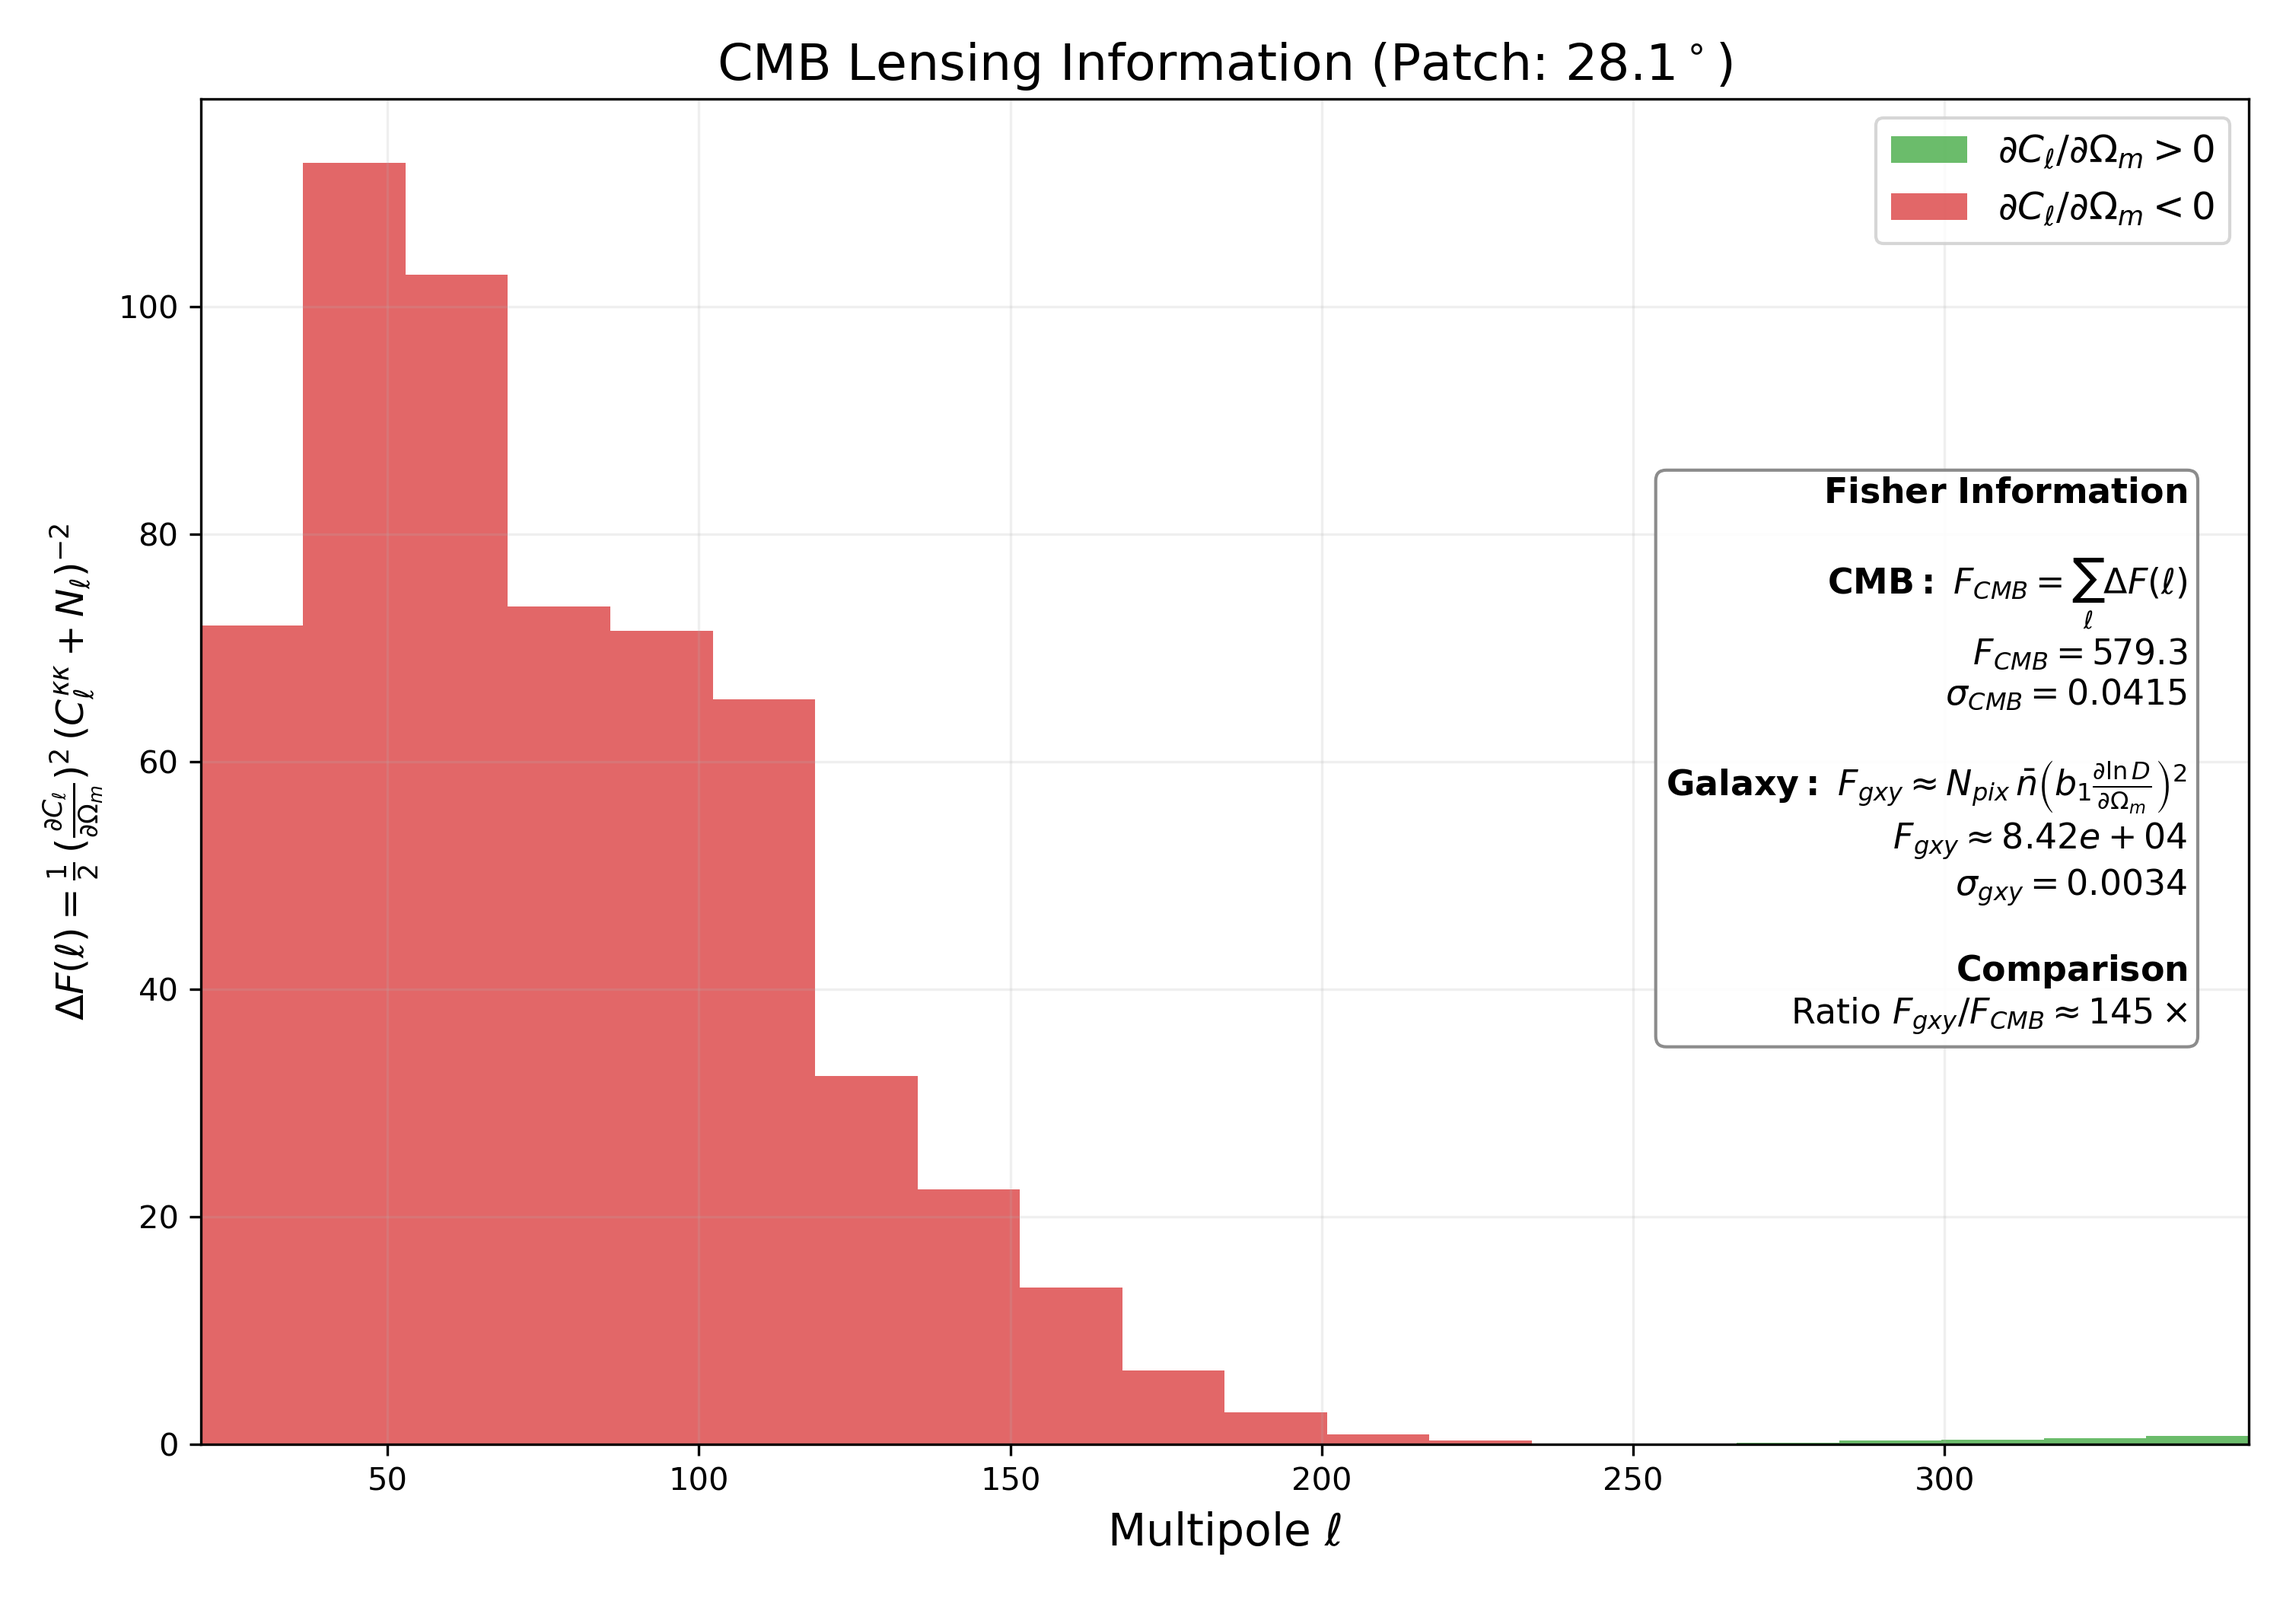
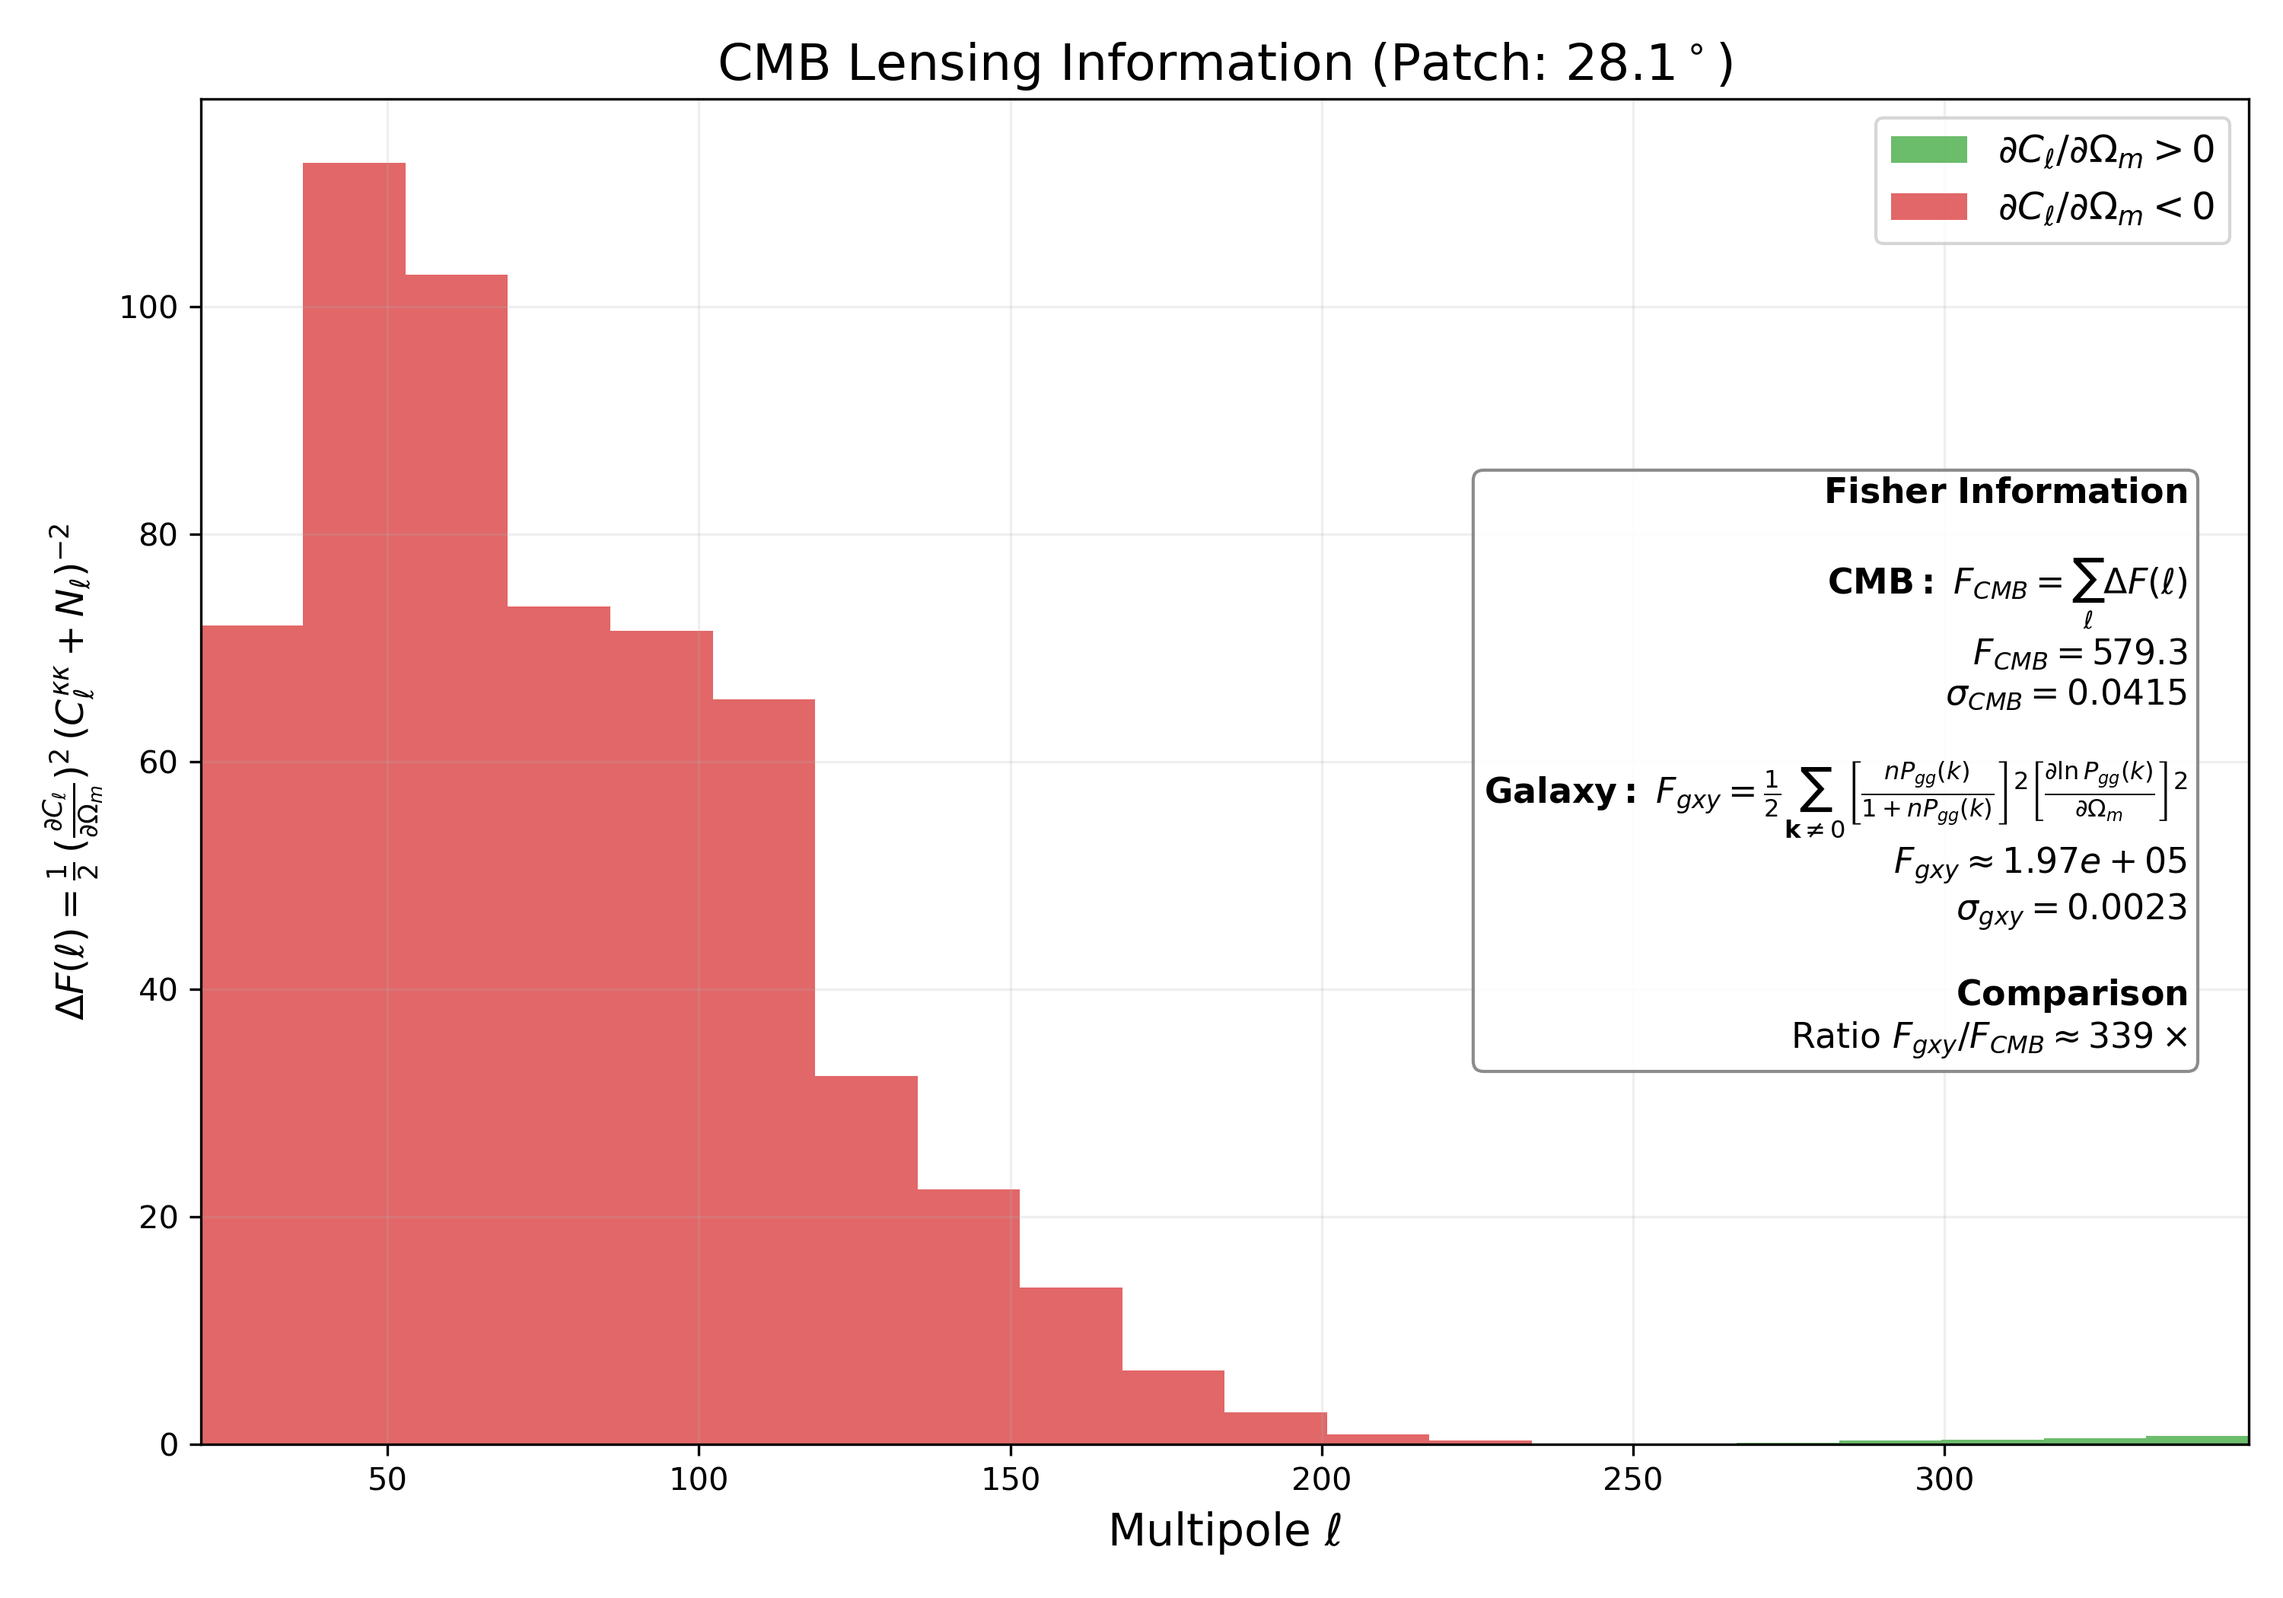
correction des formules dans l'analyses de fisher

Changed region(s): [[0.651, 0.4643, 0.961, 0.681]]

diff --git a/scripts/analyze_fisher_scales.py b/scripts/analyze_fisher_scales.py
@@ -1,11 +1,11 @@
 import os
 
 import jax.numpy as jnp
+import jax_cosmo
 import matplotlib.pyplot as plt
 import numpy as np
 import yaml
 from jax import jacfwd
-from jaxpm.growth import growth_factor
 
 from desi_cmb_fli.bricks import get_cosmology
 from desi_cmb_fli.cmb_lensing import compute_theoretical_cl_kappa
@@ -32,9 +32,9 @@ def simple_fisher(config_path="configs/inference/config.yaml"):
     if 'z_source' not in cfg['cmb_lensing']:
         cfg['cmb_lensing']['z_source'] = 1100.0
 
-    # Also enable galaxies for comparison
-    cfg['galaxies'] = cfg.get('galaxies', {})
-    cfg['galaxies']['enabled'] = True
+    # Also enable galaxies for comparison (constructor reads model.galaxies_enabled)
+    cfg['model'] = cfg.get('model', {})
+    cfg['model']['galaxies_enabled'] = True
 
     # Instantiate model to get grid geometry and noise
     model, _ = get_model_from_config(cfg)
@@ -105,38 +105,70 @@ def simple_fisher(config_path="configs/inference/config.yaml"):
     # ===== GALAXY FISHER CALCULATION (THEORETICAL) =====
     print("\nComputing galaxy Fisher information (theoretical)...")
 
-    # Growth factor derivative w.r.t. Omega_m
-    def get_growth_factor_at_z(theta):
+    b1 = loc_fid.get("b1", 2.0)  # Lagrangian bias
+    bE = 1.0 + b1  # Eulerian bias: b_E = 1 + b_L
+
+    V_survey = float(np.prod(model.box_shape))  # (Mpc/h)³
+    nbar = model.gxy_density  # galaxies per (Mpc/h)^3
+
+    box_lengths = np.asarray(model.box_shape, dtype=float)
+    mesh_sizes = np.asarray(model.mesh_shape, dtype=int)
+    k_fund_axes = 2.0 * np.pi / box_lengths
+    k_nyquist_axes = np.pi * mesh_sizes / box_lengths
+
+    # Exact anisotropic mode lattice from FFT frequencies:
+    # k_i = 2π * fftfreq(N_i, d=L_i/N_i)
+    kx = 2.0 * np.pi * np.fft.fftfreq(mesh_sizes[0], d=box_lengths[0] / mesh_sizes[0])
+    ky = 2.0 * np.pi * np.fft.fftfreq(mesh_sizes[1], d=box_lengths[1] / mesh_sizes[1])
+    kz = 2.0 * np.pi * np.fft.fftfreq(mesh_sizes[2], d=box_lengths[2] / mesh_sizes[2])
+    kx3d, ky3d, kz3d = np.meshgrid(kx, ky, kz, indexing='ij')
+    k_mag = np.sqrt(kx3d**2 + ky3d**2 + kz3d**2)
+
+    # Keep all physical non-DC modes present on the discrete lattice
+    k_modes = jnp.asarray(k_mag.ravel())
+    k_mode_mask = k_modes > 0.0
+    k_modes = k_modes[k_mode_mask]
+
+    def get_Pgg_all_k(theta):
+        """Vectorized P_gg(k) = b_E² * P_mm(k) from jax_cosmo."""
         Om, s8 = theta
         cosmo = get_cosmology(Omega_m=Om, sigma8=s8)
-        # Growth factor at a_obs (scale factor from model)
-        D_z = growth_factor(cosmo, jnp.array([model.a_obs]))[0]
-        return D_z
+        # Vectorized over all k_modes at once
+        Pmm = jnp.squeeze(jax_cosmo.power.linear_matter_power(cosmo, k_modes, a=model.a_obs))
+        return (bE**2) * Pmm
 
-    D_fid = get_growth_factor_at_z(theta_fid)
-    dD_dOm = jacfwd(get_growth_factor_at_z)(theta_fid)[0]  # Gradient w.r.t. Omega_m
+    # Compute P_gg(k) and its derivative via JAX autodiff
+    Pgg_k = get_Pgg_all_k(theta_fid)
+    dPgg_dtheta = jacfwd(get_Pgg_all_k)(theta_fid)
+    dPgg_dOm = dPgg_dtheta[..., 0]  # Derivative w.r.t Omega_m
 
-    # Galaxy bias from fiducial parameters
-    b1 = loc_fid.get("b1", 2.0)  # Default to 2.0 if not in config
+    # FKP effective-volume weight per mode: [n̄P/(1 + n̄P)]²
+    fkp_weight_sq = (nbar * Pgg_k / (1.0 + nbar * Pgg_k))**2
 
-    n_cells = int(np.prod(model.mesh_shape))
+    # Fisher integrand: (1/2) * [∂lnP/∂Ω_m]² * [n̄P/(1+n̄P)]²
+    dlnP_dOm = dPgg_dOm / Pgg_k
+    fisher_integrand = 0.5 * fkp_weight_sq * dlnP_dOm**2
 
-    # Fisher info
-    total_fisher_gxy = model.gxy_count * n_cells * (b1 * dD_dOm / D_fid)**2
+    # Discrete exact finite-volume Fisher sum:
+    # F = (1/2) * Σ_k [n̄P/(1+n̄P)]² [∂lnP/∂Ω_m]²
+    total_fisher_gxy = jnp.sum(fisher_integrand)
 
     predicted_sigma_gxy = 1.0 / jnp.sqrt(total_fisher_gxy)
 
     z_obs = 1.0/model.a_obs - 1.0
 
     print("-" * 50)
-    print(f"GALAXY RESULTS (Box: {model.box_shape[0]:.1f} Mpc/h)")
+    print(f"GALAXY RESULTS (Box shape: {tuple(model.box_shape)} Mpc/h)")
     print("-" * 50)
-    print(f"Galaxy count per cell: {model.gxy_count:.2f}")
+    print(f"Galaxy density n̄: {nbar:.4e} (Mpc/h)^-3")
+    print(f"Volume: {V_survey:.1f} (Mpc/h)^3")
     print(f"Redshift z_obs: {z_obs:.4f}")
-    print(f"Growth factor D(a={model.a_obs:.4f}): {D_fid:.4f}")
-    print(f"∂D/∂Ω_m: {dD_dOm:.4f}")
-    print(f"Galaxy bias b1: {b1:.2f}")
-    print(f"Number of cells: {n_cells}")
+    print(f"Lagrangian bias b1: {b1:.2f}")
+    print(f"Eulerian bias bE: {bE:.2f}")
+    print(f"k_fund per axis: {k_fund_axes} h/Mpc")
+    print(f"k_nyquist per axis: {k_nyquist_axes} h/Mpc")
+    print(f"Discrete k-mode count (non-DC): {k_modes.size}")
+    print(f"k range used: [{jnp.min(k_modes):.4f}, {jnp.max(k_modes):.4f}] h/Mpc")
     print(f"Total Fisher Info (Omega_m): {total_fisher_gxy:.2f}")
     print(f"Predicted 1-sigma error on Omega_m: {predicted_sigma_gxy:.5f}")
     print("-" * 50)
@@ -189,8 +221,7 @@ def simple_fisher(config_path="configs/inference/config.yaml"):
 
     # Mathematical formulas for annotation
     formula_cmb = r"$\mathbf{CMB:}\ F_{CMB} = \sum_\ell \Delta F(\ell)$"
-    # Galaxy Fisher: F = N_pix * n_bar * (b1 * dlnD/dOm)^2
-    formula_gxy = r"$\mathbf{Galaxy:}\ F_{gxy} \approx N_{pix}\, \bar{n} \left(b_1 \frac{\partial \ln D}{\partial \Omega_m}\right)^2$"
+    formula_gxy = r"$\mathbf{Galaxy:}\ F_{gxy} = \frac{1}{2}\sum_{\mathbf{k}\neq 0}\left[\frac{nP_{gg}(k)}{1+nP_{gg}(k)}\right]^2\left[\frac{\partial \ln P_{gg}(k)}{\partial\Omega_m}\right]^2$"
 
     textstr = '\n'.join((
         r'$\bf{Fisher\ Information}$',

diff --git a/docs/pipeline.md b/docs/pipeline.md
@@ -151,6 +151,18 @@ A diagnostic script to compare **simulated spectra** against **theoretical predi
 Computes Fisher information matrices to compare the constraining power of galaxies vs CMB lensing separately:
 
 - **Separate Sensitivities**: Evaluates $\partial C_\ell / \partial \theta$ for each observable (galaxy auto-spectrum, CMB lensing spectrum)
+- **Implementation Note (2026-02)**: Uses `model.nell_grid` for CMB noise, `model.gxy_density` for $\bar n$, and enables galaxies via `model.galaxies_enabled` in `cfg['model']`.
+- **Exact formulas used in the script**:
+  - **CMB lensing (2D Fourier pixels, masked):** with
+    $$M = \{\ell: 20 < \ell \le 0.85\,\ell_{Nyq},\ \mathrm{finite}(\partial_{\Omega_m}C_\ell, C_\ell, N_\ell)\},$$
+    the script computes
+    $$F_{\Omega_m\Omega_m}^{\mathrm{CMB}} = \sum_{p\in M} \frac{1}{2}\left(\frac{\partial C_p/\partial\Omega_m}{C_p+N_p}\right)^2,$$
+    and
+    $$\sigma(\Omega_m)_{\mathrm{CMB}} = \left(F_{\Omega_m\Omega_m}^{\mathrm{CMB}}\right)^{-1/2}.$$
+  - **Galaxy clustering (Gaussian + shot noise, FKP weight):** with $P_N=1/\bar n$ and $P_{gg}(k)=b_E^2P_{mm}(k)$, the script uses the **discrete finite-volume FFT sum** on the anisotropic box lattice:
+    $$F_{\Omega_m\Omega_m}^{\mathrm{gxy}} = \frac{1}{2}\sum_{\mathbf{k}\in\mathcal{K},\,\mathbf{k}\neq0}\left[\frac{\bar n P_{gg}(k)}{1+\bar n P_{gg}(k)}\right]^2\left[\frac{\partial\ln P_{gg}(k)}{\partial\Omega_m}\right]^2,$$
+    where $\mathcal{K}$ is the exact set of discrete FFT modes $k_i=2\pi\,\mathrm{fftfreq}(N_i,d=L_i/N_i)$.
+    $$\sigma(\Omega_m)_{\mathrm{gxy}} = \left(F_{\Omega_m\Omega_m}^{\mathrm{gxy}}\right)^{-1/2}.$$
 - **Parameter Constraints**: Computes Fisher matrices and marginal uncertainties for $\Omega_m$ and $\sigma_8$
 - **Information Comparison**: Quantifies the relative information from each probe at different noise levels
 
